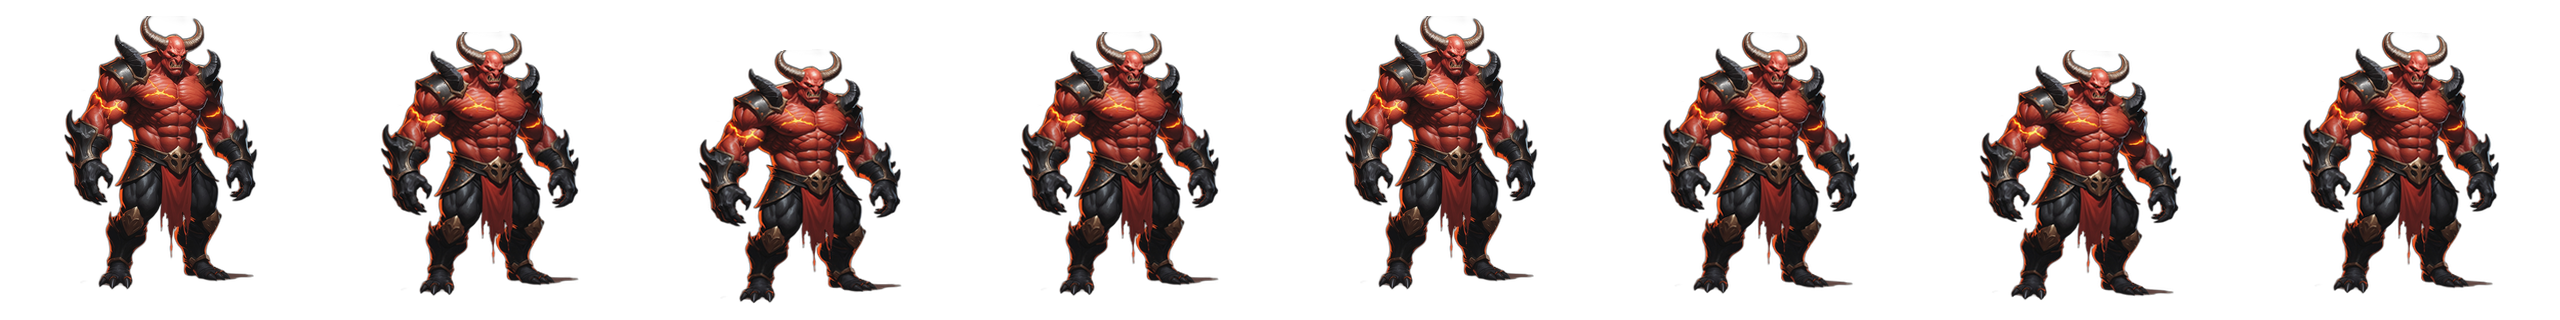
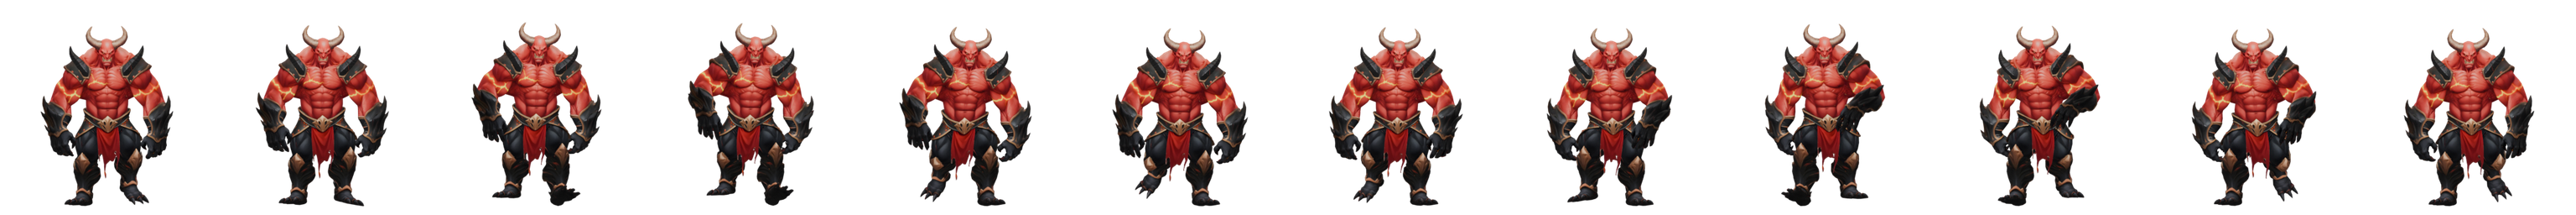
feat: Tier-2-Boss 3D-Pre-Render-Walk (ADR 036) + Blender-Render-Tool
3D-Pre-Render statt 2D-Animation fuer Helden-Motive: Meshy.ai (image-to-3D,
auto-gerigt + Walk/Attack-Clips) -> Blender-headless Frontal-Ortho-Render
(neues tools/blender_sprite_render.py, transparent, EEVEE) -> frames_from_clip
--bg none -> assets/custom/tier2_boss_run.png (12 Frames, scharf + lochfrei).
Loader unveraendert (SPRITE_NAME), null Spielcode. Im Spiel verifiziert (F3/W60).

KI-Video (Ludo), prozedurales animate_walk und Cutout-Rig zuvor als minderwertig
verworfen (Begruendung in ADR 036). 3D-Quellen (_meshy*/, ~39 MB) gitignored.
Neuer Verifikations-Treiber driver_boss60.py (F3->W60, Serien-Screenshots).

diff --git a/tools/blender_sprite_render.py b/tools/blender_sprite_render.py
@@ -1,0 +1,102 @@
+#!/usr/bin/env python3
+"""In Blender (headless) ein animiertes GLB als transparente Frontal-Sprite-Sequenz rendern.
+
+Aufruf:
+    blender -b -P tools/blender_sprite_render.py -- <model.glb> <outdir> [--res 512]
+        [--test] [--back] [--frames-step N]
+
+--test       nur EINEN Frame (Mitte) rendern, zum Ausrichten pruefen.
+--back       Kamera auf die Rueckseite (+Y) statt Front (-Y), falls Modell andersrum steht.
+"""
+import bpy, sys, os, math
+from mathutils import Vector
+
+argv = sys.argv[sys.argv.index("--") + 1:] if "--" in sys.argv else []
+model = argv[0]
+outdir = argv[1]
+res = 512
+test = "--test" in argv
+back = "--back" in argv
+step = 1
+if "--res" in argv:        res = int(argv[argv.index("--res") + 1])
+if "--frames-step" in argv: step = int(argv[argv.index("--frames-step") + 1])
+os.makedirs(outdir, exist_ok=True)
+
+# --- Szene leeren ---
+bpy.ops.object.select_all(action="SELECT")
+bpy.ops.object.delete()
+
+# --- GLB importieren ---
+bpy.ops.import_scene.gltf(filepath=model)
+meshes = [o for o in bpy.context.scene.objects if o.type == "MESH"]
+arms   = [o for o in bpy.context.scene.objects if o.type == "ARMATURE"]
+
+# --- Animations-Framebereich aus der Action ---
+fstart, fend = 1, 30
+for a in arms:
+    if a.animation_data and a.animation_data.action:
+        r = a.animation_data.action.frame_range
+        fstart, fend = int(r[0]), int(r[1])
+bpy.context.scene.frame_start = fstart
+bpy.context.scene.frame_end = fend
+
+# --- Bounding-Box ueber alle Meshes (im aktuellen Frame, Weltkoordinaten) ---
+bpy.context.scene.frame_set((fstart + fend) // 2)
+bpy.context.view_layer.update()
+mn = Vector((1e9, 1e9, 1e9)); mx = Vector((-1e9, -1e9, -1e9))
+for m in meshes:
+    for c in m.bound_box:
+        w = m.matrix_world @ Vector(c)
+        mn = Vector((min(mn[i], w[i]) for i in range(3)))
+        mx = Vector((max(mx[i], w[i]) for i in range(3)))
+center = (mn + mx) / 2
+size = mx - mn
+height = size.z if size.z > 0 else max(size)
+
+# --- Ortho-Kamera frontal (-Y) bzw. hinten (+Y), Z = oben ---
+cam_data = bpy.data.cameras.new("Cam"); cam_data.type = "ORTHO"
+cam_data.ortho_scale = height * 1.15
+cam = bpy.data.objects.new("Cam", cam_data); bpy.context.scene.collection.objects.link(cam)
+dist = max(size) * 4 + 5
+if back:
+    cam.location = (center.x, center.y + dist, center.z)
+    cam.rotation_euler = (math.pi / 2, 0, math.pi)
+else:
+    cam.location = (center.x, center.y - dist, center.z)
+    cam.rotation_euler = (math.pi / 2, 0, 0)
+bpy.context.scene.camera = cam
+
+# --- Licht: Key-Sun von vorn-oben + weiches Ambient ueber die Welt ---
+sun_d = bpy.data.lights.new("Sun", "SUN"); sun_d.energy = 3.0
+sun = bpy.data.objects.new("Sun", sun_d); bpy.context.scene.collection.objects.link(sun)
+sun.rotation_euler = (math.radians(55), 0, math.radians(-15 if not back else 195))
+world = bpy.data.worlds.new("W"); bpy.context.scene.world = world
+world.use_nodes = True
+world.node_tree.nodes["Background"].inputs[1].default_value = 1.1  # ambient strength
+
+# --- Render-Settings: EEVEE, transparent, quadratisch ---
+scn = bpy.context.scene
+try:
+    scn.render.engine = "BLENDER_EEVEE_NEXT"
+except Exception:
+    scn.render.engine = "BLENDER_EEVEE"
+scn.render.film_transparent = True
+scn.render.resolution_x = res
+scn.render.resolution_y = res
+scn.render.image_settings.file_format = "PNG"
+scn.render.image_settings.color_mode = "RGBA"
+
+def render_frame(f, name):
+    scn.frame_set(f)
+    scn.render.filepath = os.path.join(outdir, name)
+    bpy.ops.render.render(write_still=True)
+
+if test:
+    render_frame((fstart + fend) // 2, "test.png")
+    print(f"TEST gerendert: bbox h={height:.2f} frames {fstart}..{fend}")
+else:
+    i = 0
+    for f in range(fstart, fend + 1, step):
+        render_frame(f, f"{i:02d}.png")
+        i += 1
+    print(f"SEQUENZ gerendert: {i} Frames ({fstart}..{fend} step {step})")

diff --git a/.claude/skills/run-roguelite-clicker/driver_boss60.py b/.claude/skills/run-roguelite-clicker/driver_boss60.py
@@ -1,0 +1,58 @@
+#!/usr/bin/env python3
+"""Einmal-Treiber: Sprung zu Welle 60 (Tier-2-Boss) + Serien-Screenshots der Lauf-Anim."""
+import os, sys, time, threading
+try:
+    sys.stdout.reconfigure(encoding="utf-8"); sys.stderr.reconfigure(encoding="utf-8")
+except Exception:
+    pass
+os.environ.setdefault("SDL_VIDEODRIVER", "dummy")
+os.environ.setdefault("SDL_AUDIODRIVER", "dummy")
+_HERE = os.path.dirname(os.path.abspath(__file__))
+_ROOT = os.path.abspath(os.path.join(_HERE, "..", "..", ".."))
+sys.path.insert(0, _ROOT); os.chdir(_ROOT)
+import pygame  # noqa: E402
+_fake = {"pos": (0, 0)}
+pygame.mouse.get_pos = lambda: _fake["pos"]
+pygame.mouse.set_visible = lambda *a, **k: None
+
+def shot(name):
+    pygame.image.save(pygame.display.get_surface(), os.path.join(_HERE, "shots", name))
+    print("  shot ->", name)
+
+def click(x, y):
+    _fake["pos"] = (x, y)
+    pygame.event.post(pygame.event.Event(pygame.MOUSEBUTTONDOWN, button=1, pos=(x, y)))
+    pygame.event.post(pygame.event.Event(pygame.MOUSEBUTTONUP, button=1, pos=(x, y)))
+
+def key(k):
+    pygame.event.post(pygame.event.Event(pygame.KEYDOWN, key=k, mod=0, unicode=""))
+
+from game.main_menu import MainMenu as _MM
+_menu = _MM()
+START_BTN = _menu.buttons[_menu.button_ids.index("start")].rect.center
+
+def flow():
+    t0 = time.time()
+    while pygame.display.get_surface() is None and time.time() - t0 < 10:
+        time.sleep(0.05)
+    time.sleep(0.7)
+    click(640, 252)          # Slot 1
+    time.sleep(0.6)
+    click(*START_BTN)        # Lauf starten
+    time.sleep(1.0)
+    key(pygame.K_u)          # Unverwundbarkeit an (Boss-Oneshot aus, Turm überlebt)
+    key(pygame.K_F3)         # Sprung zu Welle 60 (Tier-2-Boss)
+    time.sleep(4.0)          # Wellen-Delay + Intro-Zoom abklingen + Boss läuft rein
+    for i in range(12):      # dichte Serie: Lauf-Frames über ~3 s
+        shot(f"boss60_{i:02d}.png")
+        time.sleep(0.25)
+    pygame.event.post(pygame.event.Event(pygame.QUIT))
+
+os.makedirs(os.path.join(_HERE, "shots"), exist_ok=True)
+threading.Thread(target=flow, daemon=True).start()
+import main as game
+try:
+    game.main()
+except SystemExit:
+    pass
+print("fertig.")

diff --git a/docs/decisions/036-3d-prerender-walk-animationen.md b/docs/decisions/036-3d-prerender-walk-animationen.md
@@ -1,0 +1,65 @@
+# ADR 036 — 3D-Pre-Render statt 2D-Animation für Helden-Motive
+
+Status: akzeptiert · 2026-06-22
+
+## Kontext
+
+ADR 035 hielt als offene Etappe fest: „echte KI-Frame-Animationen für Helden-Motive
+(Bosse/Turm)". Die bis dahin gebauten 2D-Wege wurden am **Tier-2-Boss** durchgespielt
+und vom Nutzer der Reihe nach als **minderwertig** verworfen:
+
+1. **KI-Video (Ludo.ai, image-to-video):** das `_static.png` wird animiert. Ergebnis
+   matschig (Video-Modelle rechnen intern klein + temporal geglättet → die scharfen
+   Leonardo-Details verwischen) und das Modell erfand ein Ende (Brust-Blitz) → Loop-Naht
+   sprang. Zusätzlich rendert Ludo ein graues Transparenz-Schachbrett ins MP4 (Keying-Stress).
+2. **Prozedural (`tools/animate_walk.py`):** scharf, aber nur Bob/Sway/Stauchen eines
+   Standbilds — vom Nutzer als „Wackeln" / billig empfunden.
+3. **Cutout-Rig (Sprite in Teile schneiden, an Knochen drehen; Prototyp gebaut):** scharf
+   + echte Beinbewegung, aber **Naht-Risse** an Schultern/Hüften. Grund ist fundamental:
+   ein flaches Bild kennt seine **verdeckten Flächen** nicht — bewegt sich ein Glied,
+   klafft dahinter ein Loch (ohne manuelles Nachmalen nicht lösbar).
+
+Gemeinsamer Kern des Scheiterns: **2D-Animation aus EINEM Bild hat keine Information über
+verdeckte Geometrie.** Bewegung braucht genau diese Information.
+
+## Entscheidung
+
+**3D-Pre-Render.** Das Motiv wird als 3D-Modell besorgt, in 3D animiert und **frontal als
+transparente 2D-Sprite-Sequenz gerendert** — die klassische „pre-rendered"-Technik (Donkey
+Kong Country, Diablo 1). Die 3D-Quelle **hat** die verdeckten Flächen, also ist jeder
+gerenderte Frame korrekt: scharf, lochfrei, echter Schritt, perfekter Loop. Im Spiel läuft
+weiterhin nur eine billige 2D-PNG — **kein 3D zur Laufzeit**, Pygame bleibt 2D.
+
+Pipeline (Tier-2 erstmals durchgezogen):
+1. **Bild → 3D + Animation:** Meshy.ai (image-to-3D). Liefert auto-gerigtes Modell **inkl.
+   fertiger Clips** (Walking/Running/RunFast/Attack/Elbow_Strike) als GLB — Mixamo entfiel.
+2. **Render:** neues **`tools/blender_sprite_render.py`** (Blender 5.1 headless): GLB
+   importieren, **orthographische Frontalkamera** (an die Bounding-Box gefittet), Film
+   transparent, EEVEE, Animations-Framebereich aus der Action → PNG-Sequenz. Flags `--test`
+   (1 Frame zum Ausrichten), `--back` (Kamera auf +Y), `--res`, `--frames-step`.
+3. **Packen:** vorhandenes `tools/frames_from_clip.py <ordner> <name>_run.png --bg none
+   --frames 12` (transparente Frames → kein Keying; Fußpunkt-Verankerung + gemeinsame
+   Skalierung wie bei allen Strips).
+4. **Einsetzen:** Datei nach `assets/custom/<name>_run.png` — der Loader (`SPRITE_NAME`)
+   zieht sie automatisch. **Null Spielcode-Änderung.**
+
+## Konsequenzen
+
+- **+** Qualitätssprung: scharf wie das Original-Artwork, echte Schrittfolge, lochfrei,
+  sauberer Loop. Im Spiel (F3 → Welle 60) bestätigt.
+- **+** Nutzt die bestehende `_run.png`-Pipeline 1:1 weiter — nur die PNG wird getauscht.
+- **+** Wiederverwendbar für alle Helden-Motive; Meshy liefert nebenbei Attack/Run-Clips,
+  die später `<name>_atk.png`-Strips werden können (gleiche Pipeline, anderes GLB).
+- **−** Der „3D-Look" ist **nicht 1:1** das gemalte Leonardo-Artwork (KI-Mesh = weichere
+  Texturen, vereinfachte Details). Bewusster Tausch: exakte Bild-Treue ↔ perfekte Animation.
+- **−** Externe Tools nötig (Meshy-Credits, Blender). Die 3D-Quellen sind groß (~39 MB/Boss)
+  → `assets/custom/_meshy*/` ist gitignored; nur der fertige Strip kommt ins Repo.
+- **−** Meshys Auto-Rig ist **humanoid** — Flügel/große Waffen flattern nicht von selbst und
+  wirken steif; schlichte humanoide Silhouetten rigen am besten.
+- **Offen:** Tier-1/Tier-3 + die 3 SuperBosse hängen noch am prozeduralen `animate_walk`
+  und können nach derselben Pipeline ersetzt werden; In-Game-Lauftempo der 12 Frames im
+  echten Feel ungeprüft; Attack-Strips noch nicht gebaut.
+
+> Hinweis: Aus demselben Meshy-Modell ist parallel ein **separates** Godot-3D-Experiment
+> entstanden (steuerbarer Charakter, laufen/angreifen) — eigenes Projekt **außerhalb dieses
+> Repos**, nicht Teil des Roguelite-Clickers.

diff --git a/progress.md b/progress.md
@@ -7,6 +7,34 @@ den Projektzustand — am Ende jeder Session aktualisieren.
 
 ## Current focus
 
+**3D-Pre-Render-Walk für Tier-2-Boss — ADR 036 (2026-06-22).** Die offene ADR-035-Etappe
+„echte Helden-Animationen" gelöst — aber **anders als geplant**. Am Tier-2-Boss reihum
+durchgespielt und vom Nutzer als minderwertig verworfen: KI-Video (Ludo, matschig + erfand
+Brust-Blitz + graues Schachbrett im MP4), prozedurales `animate_walk` („Wackeln"), Cutout-Rig
+(scharf, aber Naht-Risse — flaches Bild kennt verdeckte Flächen nicht). **Gewinner: 3D-Pre-Render.**
+Pipeline: **Meshy.ai** (image-to-3D, liefert auto-gerigtes GLB **inkl. Walking/Running/Attack/
+Elbow_Strike** → Mixamo entfiel) → neues **`tools/blender_sprite_render.py`** (Blender 5.1
+headless: GLB importieren, **orthographische Frontalkamera** an Bounding-Box gefittet, Film
+transparent, EEVEE, Animations-Framebereich aus der Action → PNG-Sequenz; Flags `--test/--back/
+--res/--frames-step`) → `tools/frames_from_clip.py … --bg none --frames 12` (transparent → kein
+Keying, Fußpunkt-Anker) → **`assets/custom/tier2_boss_run.png`** (12 Frames). Loader zieht sie
+automatisch (`SPRITE_NAME="tier2_boss"`), **null Spielcode-Änderung**. **Verifiziert im Spiel**
+(F3 → Welle 60, Boss läuft scharf/lochfrei auf den Turm zu). 3D-Quellen `assets/custom/_meshy*/`
+(~39 MB) **gitignored**, nur der Strip kommt ins Repo. Neuer Verifikations-Treiber
+`.claude/skills/run-roguelite-clicker/driver_boss60.py` (F3→W60, Serien-Screenshots).
+**Offen:** Tier-1/Tier-3 + 3 SuperBosse hängen noch am prozeduralen `animate_walk` → gleiche
+Pipeline; Meshy-Attack-Clips ungenutzt (→ später `<name>_atk.png`); 12-Frame-Lauftempo im
+echten Feel ungeprüft; KI-Mesh ≠ exaktes Leonardo-Artwork (weichere Texturen); Flügel-/Waffen-
+Motive rigen beim Humanoid-Auto-Rig schlecht.
+
+> **Separates Experiment (NICHT in diesem Repo):** Aus demselben Meshy-Modell wurde ein
+> **Godot-3D-Projekt** (`C:\Users\kings\Desktop\Marshstalker3D\`) aufgesetzt — steuerbarer
+> Charakter (WASD laufen, Shift rennen, Maus-Orbit-Kamera + Scroll-Zoom, Maus/Leertaste
+> angreifen, 4K-Vollbild). Eigenes Spiel, eigener Ordner; berührt den Clicker nicht. Godot
+> beim Nutzer noch zu installieren.
+
+---
+
 **FX-/„Juice"-Layer: Partikel + Treffer-Flash + Turm-Animation + Screenshake (2026-06-22) — ADR 035.**
 Erster Schritt von „alles animieren, damit es professioneller aussieht". Vorab geklärt:
 **keine Multi-Ansichten** nötig (Seitenansicht-Kamera, L/R-Flip wie Vampire Survivors) —
@@ -283,6 +311,24 @@ v. a. Defensiv-Build (Armor+Dodge+Regen+Dornen) gegen die Endgame-Wand. Neue Kar
 `Icon_05/06` (eigene Icons fehlen).
 
 ## Last session
+
[phone redacted] (Teil 21) — **3D-Pre-Render-Walk für Tier-2-Boss (ADR 036):**
+- **Vier Animations-Wege am Tier-2 durchprobiert**, drei vom Nutzer als minderwertig verworfen
+  (KI-Video/Ludo matschig + Blitz-Ende; prozedurales „Wackeln"; Cutout-Rig mit Naht-Rissen) →
+  Entscheidung **3D-Pre-Render** (klassisch „pre-rendered", DKC/Diablo).
+- **`tools/blender_sprite_render.py`** (neu): Blender-headless rendert ein animiertes GLB als
+  transparente Frontal-Sprite-Sequenz (Ortho-Kamera an BBox gefittet, EEVEE, `--test/--back/
+  --res/--frames-step`). Quelle = Meshy.ai-GLB (auto-gerigt, Walking/Attack/… fertig).
+- **Pack-Schritt** über bestehendes `frames_from_clip.py … --bg none --frames 12` → `assets/
+  custom/tier2_boss_run.png` (12 Frames). Loader unverändert (`SPRITE_NAME`), kein Spielcode.
+- **`.gitignore`:** `assets/custom/_meshy*/` (3D-Quellen ~39 MB) raus; nur der Strip ins Repo.
+- **Verifikation:** neuer Treiber `driver_boss60.py` (F3 → Welle 60, Serien-Screenshots) →
+  Boss läuft scharf, lochfrei, sauberer Loop auf den Turm zu. `imageio`+`imageio-ffmpeg`
+  installiert (für MP4-Input von `frames_from_clip`). Cutout-Experiment-Reste (`rig_walk.py`,
+  Temp-PNGs) wieder entfernt; Preview-GIF aus dem Repo-Root gelöscht.
+- **Separat (außerhalb Repo):** Godot-3D-Projekt `Desktop\Marshstalker3D\` aus demselben
+  Modell (spielbarer Charakter, laufen/angreifen, Orbit-Kamera/Zoom, 4K-Vollbild) — eigenes
+  Spiel, kein Teil des Clickers.
 
 2026-06-22 (Teil 20) — **FX-/„Juice"-Layer (ADR 035):**
 - **Frage des Nutzers vorab beantwortet:** Multi-Ansichten (4-/8-Richtungen) sind bei der

diff --git a/docs/decisions/README.md b/docs/decisions/README.md
@@ -74,3 +74,4 @@ Was folgt daraus — positiv und negativ. Was bindet das für spätere Arbeit?
 - [ADR 033 — UI-Redesign: zentrales Theme-Modul, „Glass"-Hybrid-Look](033-ui-redesign-theme-glass-hybrid.md)
 - [ADR 034 — Overdrive: aktivierbare Spieler-Fähigkeit (Leertaste, offensiver Burst)](034-overdrive-aktive-faehigkeit.md)
 - [ADR 035 — FX-/„Juice"-Layer: Partikel, Treffer-Flash, Turm-Animation, Screenshake](035-fx-juice-layer.md)
+- [ADR 036 — 3D-Pre-Render statt 2D-Animation für Helden-Motive (Meshy → Blender → Sprite-Strip)](036-3d-prerender-walk-animationen.md)